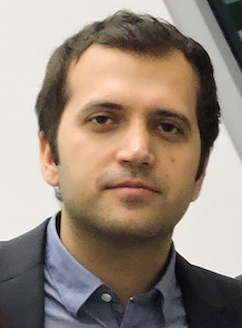
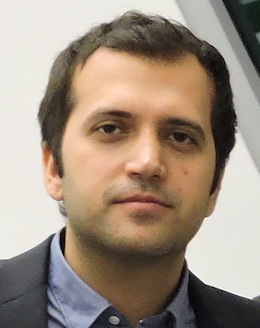
min

diff --git a/index.php b/index.php
@@ -20,7 +20,7 @@
     ...
   </div>
 
-  <div class="ui left vertical inverted labeled icon fixed menu">
+  <div class="ui top horizontal inverted sidebar menu" id="toc">
     <a class="item" href="#home">
       <i class="home icon"></i>
       Home
@@ -46,6 +46,9 @@
       Development
     </a>
   </div>
+  <div class="ui black launch right attached fixed button" onClick="toggleTOC();">
+    <i class="content icon"></i>
+  </div>
 
 
   <div class="ui vertically padded grid page pusher" id="home">
@@ -54,8 +57,8 @@
 
         <div class="ui card">
           <div class="ui slide masked reveal image">
-            <img src="imgs/ali_smile.jpg" class="visible content">
-            <img src="imgs/ali.jpg" class="hidden content">
+            <img src="imgs/ali.jpg" class="visible content" style="opacity: 0.5;">
+            <img src="imgs/ali_smile.jpg" class="hidden content" style="opacity: 0.9;">
           </div>
           <div class="content">
             <a class="header">Ali Khalili (Dr.-Ing.)</a>
@@ -149,7 +152,7 @@ type="text/javascript" charset="utf-8"></script>
             <br/>
             I am originally form Iran and have been abroad (Germany, Netherlands) since 2009 to continue my education.
             My wife (Bita) is a pharmacist and pharmaceutical technology researcher.
-            Besides my academic work, I enjoy reading novel and poetry books especially from Persian poets (e.g. <a href="http://en.wikipedia.org/wiki/Omar_Khayyam">Omar Khayyam</a>, <a href="http://en.wikipedia.org/wiki/Saadi_(poet)">Saadi</a>, <a href="http://en.wikipedia.org/wiki/Hafez_Shirazi">Hafez</a>, <a href="http://en.wikipedia.org/wiki/Rumi">Rumi</a>).
+            Besides my academic work, I enjoy reading novel and poetry books especially from Persian poets (e.g. <a href="http://en.wikipedia.org/wiki/Omar_Khayyam">Khayyam</a>, <a href="http://en.wikipedia.org/wiki/Saadi_(poet)">Saadi</a>, <a href="http://en.wikipedia.org/wiki/Hafez_Shirazi">Hafez</a>, <a href="http://en.wikipedia.org/wiki/Rumi">Rumi</a>).
             I also enjoy watching and playing soccer.
           </p>
         </div>
@@ -337,9 +340,11 @@ type="text/javascript" charset="utf-8"></script>
 <script src="https://cdnjs.cloudflare.com/ajax/libs/semantic-ui/1.8.1/components/sidebar.min.js"></script>
     <!-- Custom Theme JavaScript -->
     <script type="text/javascript">
-    $('.sidebar')
-  .sidebar();
-
+    function toggleTOC(){
+      $('#toc')
+    .sidebar('toggle');
+    $('#home').css('padding-top','60px');
+    }
     </script>
 </body>
 
